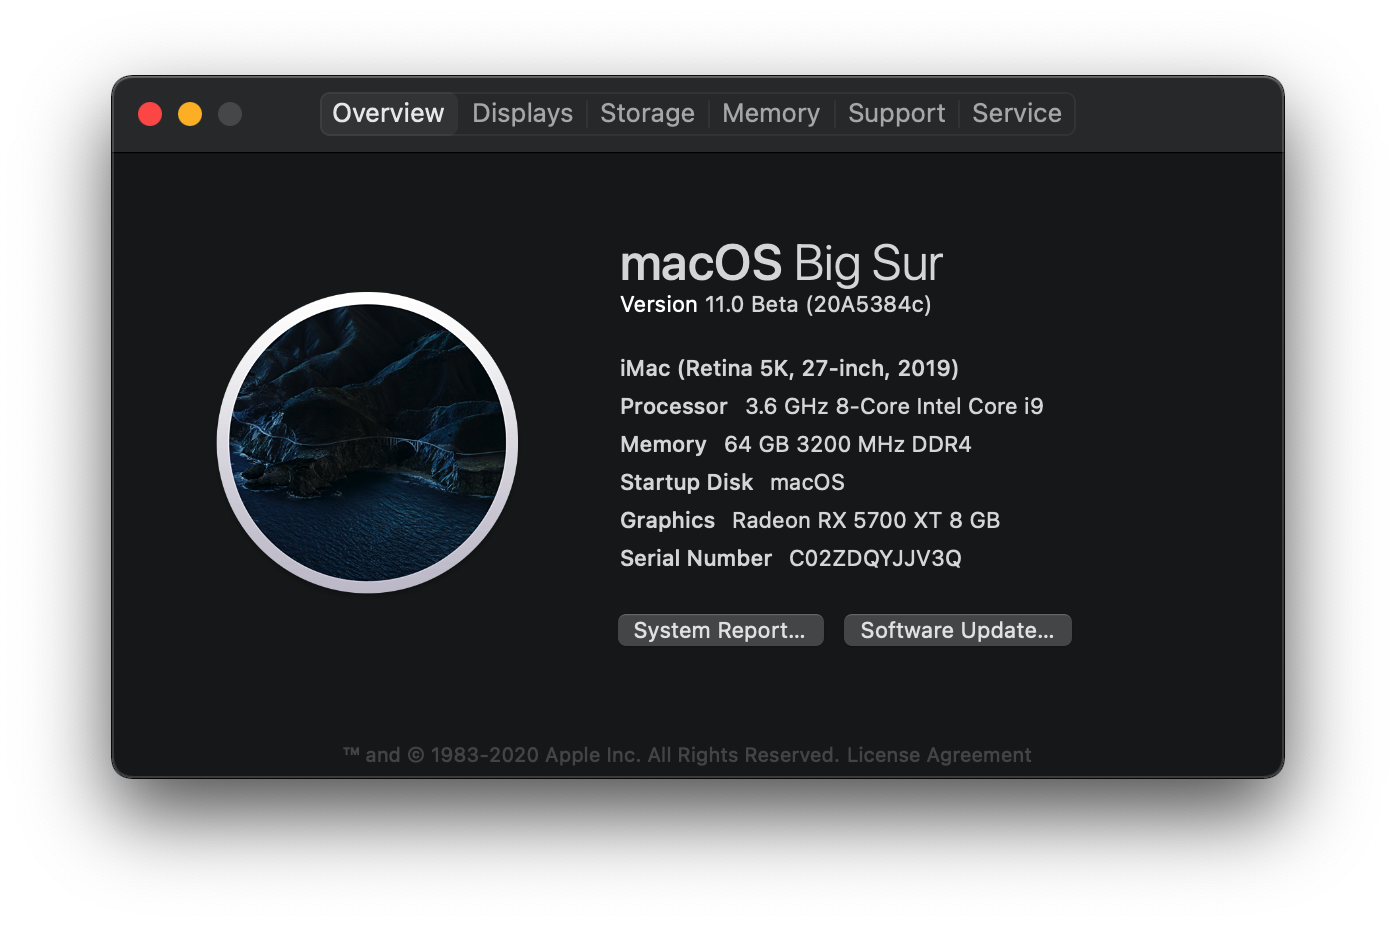
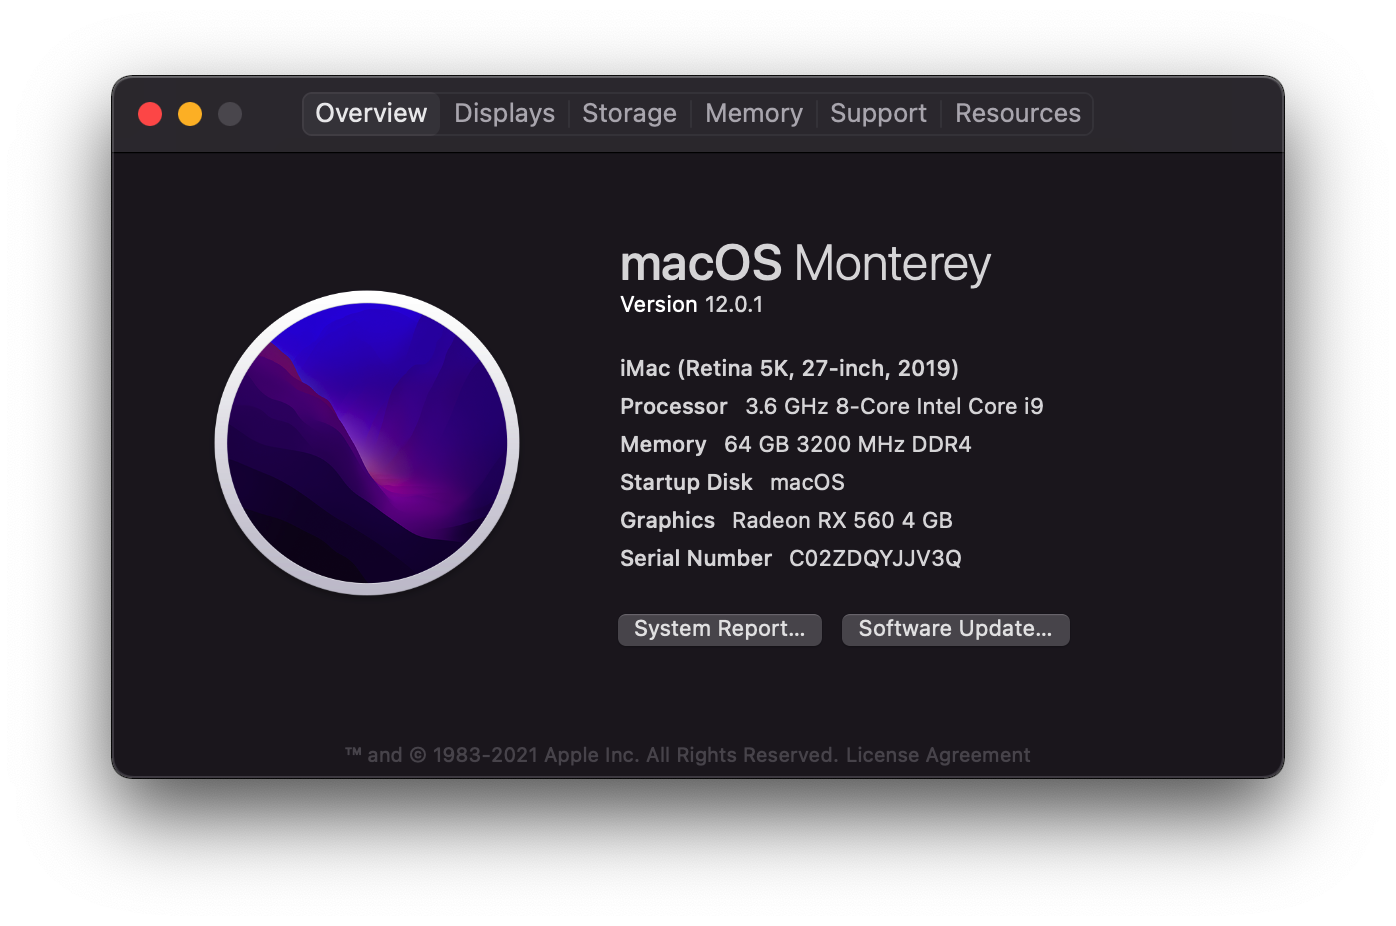
Update macOS Monterey

diff --git a/README.md b/README.md
@@ -4,7 +4,7 @@ OpenCore 0.7.4
 
 Guide used [OpenCore Vanilla](https://khronokernel.github.io/Opencore-Vanilla-Desktop-Guide/), I highly suggest reading through all of it and going through and creating your own `config.plist` even if it's just to understand the inner workings of OpenCore. Directly copying my `config.plist` may not work if you do not have the exact components that I do.
 
-This has been tested and is running on 10.14.x, 10.15.x, 11.x.
+This has been tested and is running on 10.14.x, 10.15.x, 11.x, 12.x.
 
 ![System Info](info.png)
 
